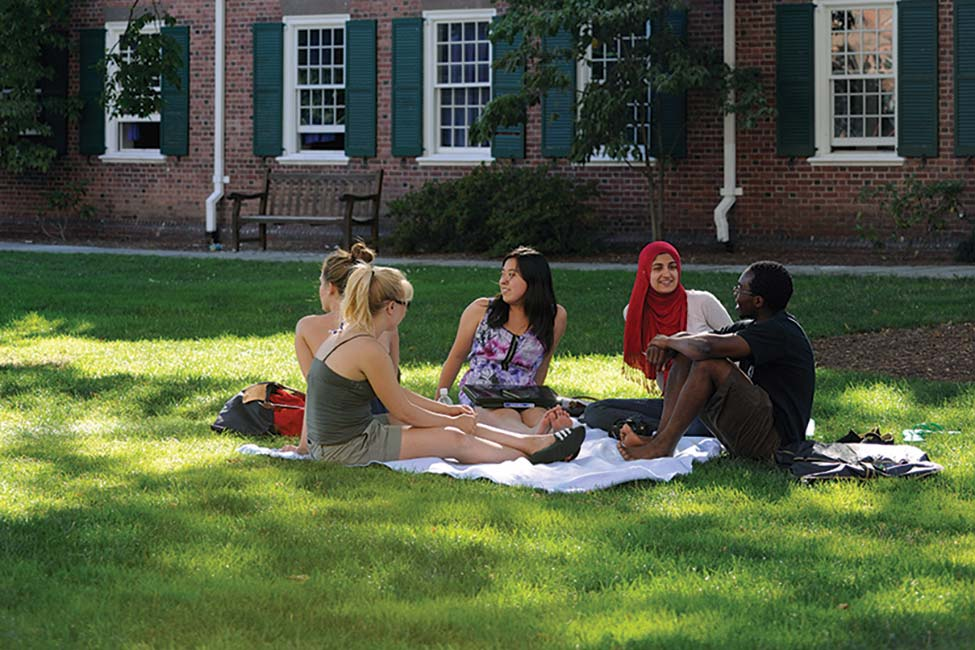
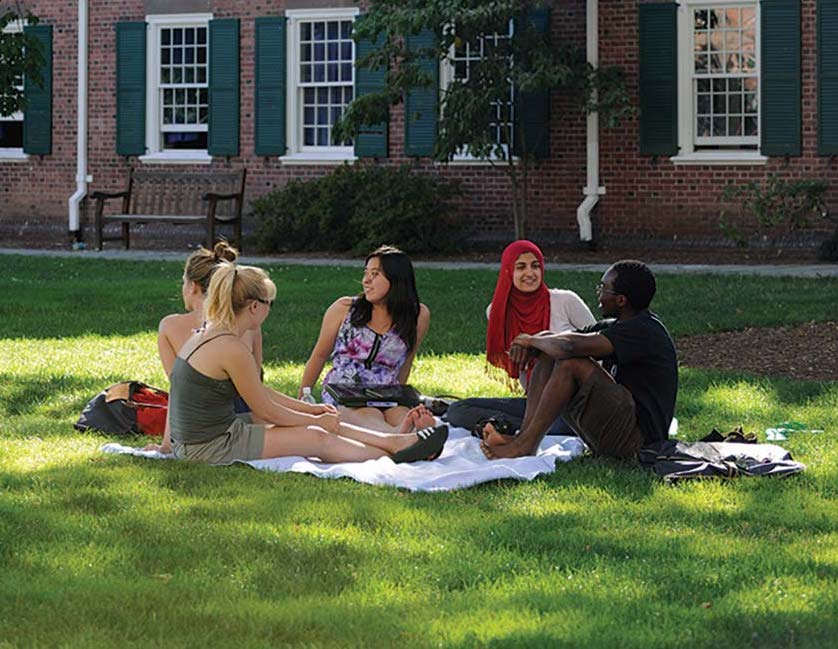
Image Resizes Fix & Small fixes on sub-header shadows
Shadows fix :

- In all of my pages the sub-header did cast a shadow on the template
header. Fixed.

- In all programs description pages the text-panel on the right of the
screen wasn’t taking the shadow of the footer. Fixed.

Image resize :

- Summer program image resize in height and hides the expected overflow
in width, while keeping the image centred.
If ever the image end up not having enough width (= [display_width /
display_height] ratio very very high, and very unlikely), in this case
the image proportions are altered and the width is resized to fill the
missing width.

- Other most occluded image resize handled with brut resize on programs
description pages.

diff --git a/static/css/SummerPrograms.css b/static/css/SummerPrograms.css
@@ -21,8 +21,6 @@ body {
 	min-height: 5vh;
 	max-height: 5vh;
 
-	box-shadow: 0 0 15px black;
-
 	font-size: 150%;
 	font-weight: bold;
 
@@ -72,16 +70,24 @@ body {
 #Yale-core-right {
 	min-height: 70vh;
 	max-height: 70vh;
+
+	overflow: hidden;
+	position: relative;
 }
 
 #Yale-core-right-image {
 	min-height: 70vh;
 	max-height: 70vh;
+	min-width: 35vw;
 
-	position:relative;
-	overflow:hidden;
+	z-index: 10;
 
-	z-index: -1;
+    position: absolute;
+    top: -9999px;
+    bottom: -9999px;
+    left: -9999px;
+    right: -9999px;
+    margin: auto;
 
 	/* Manage horizontal rezise/crop */
 }

diff --git a/static/css/ProgramsGraphicDesign.css b/static/css/ProgramsGraphicDesign.css
@@ -21,17 +21,14 @@ body {
 	min-height: 5vh;
 	max-height: 5vh;
 
-	box-shadow: 0 0 15px black;
-
 	font-size: 150%;
 	font-weight: bold;
 
 	text-align: center;
-	z-index: 2;
 }
 
 #Yale-sub-header-title {
-	padding-top:1.25vw;
+	padding-top:1.0vw;
 }
 
 /* -------------------- CORE -------------------- */
@@ -95,6 +92,8 @@ body {
 #Yale-core-right-image {
 	min-height: 70vh;
 	max-height: 70vh;
+	min-width: 50vw;
+	max-width: 50vw;
 
 	position: absolute;
 	overflow: hidden;
@@ -147,5 +146,5 @@ body {
 
   	position: absolute;
 
-	z-index: 2;
+	z-index:0;
 }

diff --git a/static/css/AdmissionHomePage.css b/static/css/AdmissionHomePage.css
@@ -21,13 +21,10 @@ body {
 	min-height: 5vh;
 	max-height: 5vh;
 
-	box-shadow: 0 0 15px black;
-
 	font-size: 150%;
 	font-weight: bold;
 
 	text-align: center;
-	z-index: 0;
 }
 
 #Yale-sub-header-title {
@@ -83,6 +80,7 @@ body {
 #Yale-core-right {
 	min-height: 70vh;
 	max-height: 70vh;
+
 }
 
 #Yale-core-right-image {

diff --git a/static/css/AdmissionApplication.css b/static/css/AdmissionApplication.css
@@ -21,15 +21,11 @@ body {
 	min-height: 5vh;
 	max-height: 5vh;
 
-	box-shadow: 0 0 15px black;
-
 	font-size: 150%;
 	font-weight: bold;
 
 	text-align: center;
 	padding-top:1vh;
-
-	z-index: 1;
 }
 
 /* -------------------- CORE -------------------- */

diff --git a/static/css/AdmissionGeneralRequirements.css b/static/css/AdmissionGeneralRequirements.css
@@ -21,14 +21,10 @@ body {
 	min-height: 5vh;
 	max-height: 5vh;
 
-	box-shadow: 0 0 15px black;
-
 	font-size: 150%;
 	font-weight: bold;
 
-	text-align: center;
-	z-index: 0;
-}
+	text-align: center;}
 
 #Yale-sub-header-title {
 	padding-top:1vh;

diff --git a/static/css/AdmissionFinancialAid.css b/static/css/AdmissionFinancialAid.css
@@ -21,13 +21,10 @@ body {
 	min-height: 5vh;
 	max-height: 5vh;
 
-	box-shadow: 0 0 15px black;
-
 	font-size: 150%;
 	font-weight: bold;
 
 	text-align: center;
-	z-index: 0;
 }
 
 #Yale-sub-header-title {

diff --git a/static/css/AdmissionSpecificRequirements.css b/static/css/AdmissionSpecificRequirements.css
@@ -20,13 +20,10 @@ body {
 	min-height: 5vh;
 	max-height: 5vh;
 
-	box-shadow: 0 0 15px black;
-
 	font-size: 150%;
 	font-weight: bold;
 
 	text-align: center;
-	z-index: 0;
 }
 
 #Yale-sub-header-title {

diff --git a/static/css/header.css b/static/css/header.css
@@ -18,3 +18,7 @@
 .seq-preload-circle{
 	fill: #04356b;
 }
+
+body {
+	z-index: 100;
+}
